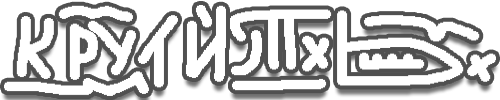
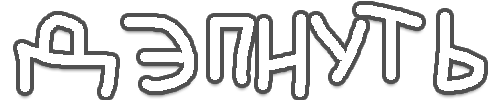
Update Lebedev design: white text with black outline, new emoji prizes, infinite subscription prize, fixed preview button styling

diff --git a/docs/quests.js b/docs/quests.js
@@ -380,12 +380,13 @@ const ROULETTE_PRIZES_DESIGNS = {
     { id: 'frodCourse', name: 'Курс', icon: '📚', count: 1, probability: 0.0005 }
   ],
   casino: [
-    { id: 'subscription', name: '🎨 КРАСКИ', icon: '🎨', count: 3, probability: 0.03 },
-    { id: 'discount500', name: '🍭 КОНФЕТЫ', icon: '🍭', count: 1, probability: 0.10 },
-    { id: 'discount100', name: '🎈 ШАРИКИ', icon: '🎈', count: 3, probability: 0.15 },
-    { id: 'discount50', name: '🧸 МИШКИ', icon: '🧸', count: 4, probability: 0.20 },
-    { id: 'quest24h', name: '🎪 ЦИРК', icon: '🎪', count: 5, probability: 0.75 },
-    { id: 'frodCourse', name: '🌈 РАДУГА', icon: '🌈', count: 1, probability: 0.0005 }
+    { id: 'infiniteSubscription', name: '🪙 БЕСКОНЕЧНАЯ ПОДПИСКА', icon: '🪙', count: 1, probability: 0.01 },
+    { id: 'subscription', name: '⚰ ПОДПИСКА', icon: '⚰', count: 3, probability: 0.03 },
+    { id: 'discount500', name: '💀 500 РУБ', icon: '💀', count: 1, probability: 0.10 },
+    { id: 'discount100', name: '💉 100 РУБ', icon: '💉', count: 3, probability: 0.15 },
+    { id: 'discount50', name: '💸 50 РУБ', icon: '💸', count: 4, probability: 0.20 },
+    { id: 'quest24h', name: '🔪 КВЕСТ 24Ч', icon: '🔪', count: 5, probability: 0.75 },
+    { id: 'frodCourse', name: '🩻 КУРС', icon: '🩻', count: 1, probability: 0.0005 }
   ],
   author: [
     { id: 'subscription', name: 'КОСМИЧЕСКАЯ ПОДПИСКА', icon: '🚀', count: 3, probability: 0.03 },
@@ -611,6 +612,28 @@ async function showPrizeModal(prize, isFree = false) {
         Текущий баланс: ${userData.mulacoin} MULACOIN
       </p>
     `;
+  } else if (prize.id === 'infiniteSubscription') {
+    const promoCode = generatePromoCode(prize);
+    
+    // Даем опыт за бесконечную подписку
+    await addRewards(0, 200, 'roulette', prize.name, 'easy');
+    
+    // Сохраняем промокод в базу данных
+    await savePromocode(prize, promoCode);
+    
+    contentHTML = `
+      <div class="promo-code" id="promoCode" onclick="copyPromoCode()">${promoCode}</div>
+      <p style="font-size: 14px; color: var(--text-muted); margin: 8px 0;">
+        Нажмите на промокод, чтобы скопировать
+      </p>
+      <p style="font-size: 14px; color: var(--text-muted);">
+        +200 опыта получено!
+      </p>
+      <a href="https://t.me/acqu1red?text=${encodeURIComponent(getPromoMessage(prize, promoCode))}" 
+         class="use-button" id="useButton" style="display: none;">
+        Использовать
+      </a>
+    `;
   } else if (prize.id === 'subscription' || prize.id.startsWith('discount')) {
     const promoCode = generatePromoCode(prize);
     
@@ -676,7 +699,8 @@ async function showPrizeModal(prize, isFree = false) {
 }
 
 function generatePromoCode(prize) {
-  const prefix = prize.id === 'subscription' ? 'SUB' : 
+  const prefix = prize.id === 'infiniteSubscription' ? 'INF' :
+                prize.id === 'subscription' ? 'SUB' : 
                 prize.id === 'frodCourse' ? 'FROD' : 'DIS';
   const rand = Math.random().toString(36).slice(2, 8).toUpperCase();
   return `${prefix}-${rand}`;
@@ -684,6 +708,7 @@ function generatePromoCode(prize) {
 
 function getPromoMessage(prize, code) {
   const messages = {
+    infiniteSubscription: `🎉 Выиграл БЕСКОНЕЧНУЮ ПОДПИСКУ!\n\nПромокод: ${code}\n\nДействует навсегда!`,
     subscription: `🎉 Выиграл 1 месяц подписки!\n\nПромокод: ${code}\n\nДействует 30 дней.`,
     discount500: `🎉 Выиграл скидку 500 рублей!\n\nПромокод: ${code}\n\nДействует 7 дней.`,
     discount100: `🎉 Выиграл скидку 100 рублей!\n\nПромокод: ${code}\n\nДействует 7 дней.`,

diff --git a/docs/quests.css b/docs/quests.css
@@ -330,12 +330,14 @@ h3 { font-size: 1.25rem; }
   font-family: 'Comic Sans MS', cursive, sans-serif !important;
   border: 3px solid #000000 !important;
   background: #ffffff !important;
-  color: #000000 !important;
+  color: #ffffff !important;
+  text-shadow: 2px 2px 0px #000000, -2px -2px 0px #000000, 2px -2px 0px #000000, -2px 2px 0px #000000 !important;
 }
 
 .roulette-section.casino-theme .design-option.active {
   background: #000000 !important;
   color: #ffffff !important;
+  text-shadow: 2px 2px 0px #000000, -2px -2px 0px #000000, 2px -2px 0px #000000, -2px 2px 0px #000000 !important;
 }
 
 .roulette-section.casino-theme .design-name {
@@ -349,12 +351,51 @@ h3 { font-size: 1.25rem; }
   font-family: 'Comic Sans MS', cursive, sans-serif !important;
   font-size: 12px !important;
   font-weight: 700 !important;
-  color: #000000 !important;
+  color: #ffffff !important;
   background: #ffffff !important;
   border: 2px solid #000000 !important;
   border-radius: 10px !important;
   padding: 4px 8px !important;
-  text-shadow: 1px 1px 0px #ffffff, -1px -1px 0px #ffffff, 1px -1px 0px #ffffff, -1px 1px 0px #ffffff !important;
+  text-shadow: 2px 2px 0px #000000, -2px -2px 0px #000000, 2px -2px 0px #000000, -2px 2px 0px #000000 !important;
+}
+
+/* Кнопка "Возможные призы" в дизайне Лебедева */
+.roulette-section.casino-theme .preview-header {
+  background: #ffffff !important;
+  border: 3px solid #000000 !important;
+  border-radius: 15px !important;
+  color: #ffffff !important;
+  font-family: 'Comic Sans MS', cursive, sans-serif !important;
+  text-shadow: 2px 2px 0px #000000, -2px -2px 0px #000000, 2px -2px 0px #000000, -2px 2px 0px #000000 !important;
+}
+
+.roulette-section.casino-theme .preview-content {
+  background: #ffffff !important;
+  border: 3px solid #000000 !important;
+  border-radius: 15px !important;
+  color: #ffffff !important;
+  font-family: 'Comic Sans MS', cursive, sans-serif !important;
+}
+
+.roulette-section.casino-theme .preview-content.expanded {
+  background: #ffffff !important;
+  border: 3px solid #000000 !important;
+  color: #ffffff !important;
+}
+
+.roulette-section.casino-theme .preview-items {
+  background: #ffffff !important;
+  color: #ffffff !important;
+  font-family: 'Comic Sans MS', cursive, sans-serif !important;
+}
+
+.roulette-section.casino-theme .preview-item {
+  background: #ffffff !important;
+  border: 2px solid #000000 !important;
+  border-radius: 10px !important;
+  color: #ffffff !important;
+  font-family: 'Comic Sans MS', cursive, sans-serif !important;
+  text-shadow: 1px 1px 0px #000000, -1px -1px 0px #000000, 1px -1px 0px #000000, -1px 1px 0px #000000 !important;
 }
 
 .roulette-description {
@@ -1572,12 +1613,12 @@ h3 { font-size: 1.25rem; }
 
 .roulette-container.casino .icon-symbol {
   font-size: 28px;
-  color: #000000;
+  color: #ffffff;
   filter: none;
   animation: none;
   z-index: 2;
   position: relative;
-  text-shadow: 2px 2px 0px #ffffff, -2px -2px 0px #ffffff, 2px -2px 0px #ffffff, -2px 2px 0px #ffffff;
+  text-shadow: 2px 2px 0px #000000, -2px -2px 0px #000000, 2px -2px 0px #000000, -2px 2px 0px #000000;
 }
 
 /* Авторский дизайн - космический детский */
